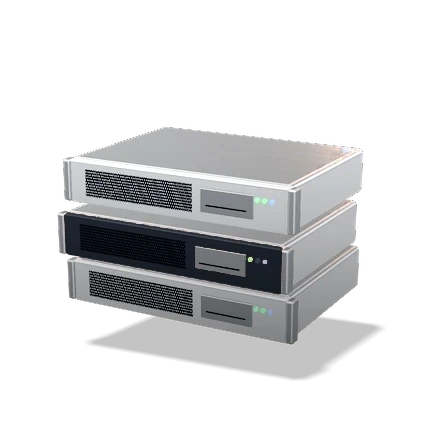
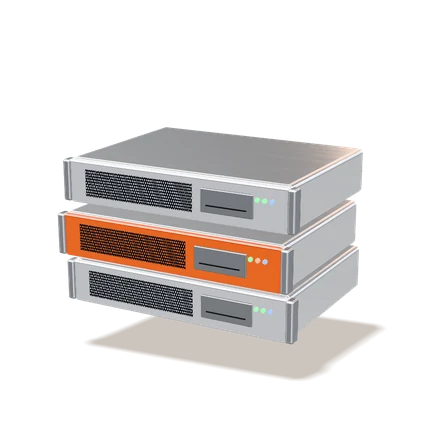
Confiance : retour aux icônes à touches orange
Remet les 4 objets 3D réalistes à touches orange (version du 16/11)
et passe le halo derrière chaque objet en orange pour aller avec.
Les cartes, les textes et les étiquettes ne changent pas.

Claude-Session: https://claude.ai/code/session_01KR9PKJfxahoW2SqZePqKxu

diff --git a/app/finitions.css b/app/finitions.css
@@ -313,10 +313,10 @@ a:focus-visible, button:focus-visible, [role="button"]:focus-visible, summary:fo
 }
 .trust-band.trust-band .trust-card.trust-card:hover { transform: translateY(-3px); }
 .trust-band.trust-band .trust-card.trust-card:hover::before { filter: saturate(1.3) brightness(1.08); }
-.trust-band.trust-band .trust-card.trust-card:nth-child(1) { --glow: rgba(232, 176, 74, .38); --tag: #a16207; }
-.trust-band.trust-band .trust-card.trust-card:nth-child(2) { --glow: rgba(96, 165, 250, .26); --tag: #1d4ed8; }
-.trust-band.trust-band .trust-card.trust-card:nth-child(3) { --glow: rgba(59, 130, 246, .32); --tag: #2563eb; }
-.trust-band.trust-band .trust-card.trust-card:nth-child(4) { --glow: rgba(34, 197, 94, .30); --tag: #15803d; }
+.trust-band.trust-band .trust-card.trust-card:nth-child(1) { --glow: rgba(255, 106, 40, .30); --tag: #a16207; }
+.trust-band.trust-band .trust-card.trust-card:nth-child(2) { --glow: rgba(255, 106, 40, .30); --tag: #1d4ed8; }
+.trust-band.trust-band .trust-card.trust-card:nth-child(3) { --glow: rgba(255, 106, 40, .30); --tag: #2563eb; }
+.trust-band.trust-band .trust-card.trust-card:nth-child(4) { --glow: rgba(255, 106, 40, .30); --tag: #15803d; }
 .trust-band.trust-band .trust-card.trust-card .trust-tag { grid-column: 1 / -1; grid-row: auto; justify-self: start; color: var(--tag); background: color-mix(in srgb, var(--tag) 10%, transparent); border: 1px solid color-mix(in srgb, var(--tag) 20%, transparent); }
 .trust-band.trust-band .trust-card .trust-link:hover { color: var(--tag); }
 
@@ -328,10 +328,10 @@ a:focus-visible, button:focus-visible, [role="button"]:focus-visible, summary:fo
   box-shadow: inset 0 1px 0 rgba(255, 255, 255, .07), 0 28px 56px -30px rgba(0, 0, 0, .85);
 }
 [data-theme="dark"] .trust-band.trust-band .trust-card .trust-art { filter: drop-shadow(0 22px 26px rgba(0, 0, 0, .65)); }
-[data-theme="dark"] .trust-band.trust-band .trust-card.trust-card:nth-child(1) { --glow: rgba(232, 176, 74, .50); --tag: #f0c46a; }
-[data-theme="dark"] .trust-band.trust-band .trust-card.trust-card:nth-child(2) { --glow: rgba(96, 165, 250, .34); --tag: #8fbaff; }
-[data-theme="dark"] .trust-band.trust-band .trust-card.trust-card:nth-child(3) { --glow: rgba(59, 130, 246, .52); --tag: #6ea8ff; }
-[data-theme="dark"] .trust-band.trust-band .trust-card.trust-card:nth-child(4) { --glow: rgba(34, 197, 94, .42); --tag: #4ade80; }
+[data-theme="dark"] .trust-band.trust-band .trust-card.trust-card:nth-child(1) { --glow: rgba(255, 106, 40, .46); --tag: #f0c46a; }
+[data-theme="dark"] .trust-band.trust-band .trust-card.trust-card:nth-child(2) { --glow: rgba(255, 106, 40, .46); --tag: #8fbaff; }
+[data-theme="dark"] .trust-band.trust-band .trust-card.trust-card:nth-child(3) { --glow: rgba(255, 106, 40, .46); --tag: #6ea8ff; }
+[data-theme="dark"] .trust-band.trust-band .trust-card.trust-card:nth-child(4) { --glow: rgba(255, 106, 40, .46); --tag: #4ade80; }
 [data-theme="dark"] .trust-band.trust-band .trust-card h3 { color: #fafafa; }
 [data-theme="dark"] .trust-band.trust-band .trust-card p { color: #a1a1aa; }
 [data-theme="dark"] .trust-band.trust-band .trust-card .trust-link { color: #fafafa; }
@@ -343,10 +343,10 @@ a:focus-visible, button:focus-visible, [role="button"]:focus-visible, summary:fo
     box-shadow: inset 0 1px 0 rgba(255, 255, 255, .07), 0 28px 56px -30px rgba(0, 0, 0, .85);
   }
   :root:not([data-theme="light"]) .trust-band.trust-band .trust-card .trust-art { filter: drop-shadow(0 22px 26px rgba(0, 0, 0, .65)); }
-  :root:not([data-theme="light"]) .trust-band.trust-band .trust-card.trust-card:nth-child(1) { --glow: rgba(232, 176, 74, .50); --tag: #f0c46a; }
-  :root:not([data-theme="light"]) .trust-band.trust-band .trust-card.trust-card:nth-child(2) { --glow: rgba(96, 165, 250, .34); --tag: #8fbaff; }
-  :root:not([data-theme="light"]) .trust-band.trust-band .trust-card.trust-card:nth-child(3) { --glow: rgba(59, 130, 246, .52); --tag: #6ea8ff; }
-  :root:not([data-theme="light"]) .trust-band.trust-band .trust-card.trust-card:nth-child(4) { --glow: rgba(34, 197, 94, .42); --tag: #4ade80; }
+  :root:not([data-theme="light"]) .trust-band.trust-band .trust-card.trust-card:nth-child(1) { --glow: rgba(255, 106, 40, .46); --tag: #f0c46a; }
+  :root:not([data-theme="light"]) .trust-band.trust-band .trust-card.trust-card:nth-child(2) { --glow: rgba(255, 106, 40, .46); --tag: #8fbaff; }
+  :root:not([data-theme="light"]) .trust-band.trust-band .trust-card.trust-card:nth-child(3) { --glow: rgba(255, 106, 40, .46); --tag: #6ea8ff; }
+  :root:not([data-theme="light"]) .trust-band.trust-band .trust-card.trust-card:nth-child(4) { --glow: rgba(255, 106, 40, .46); --tag: #4ade80; }
   :root:not([data-theme="light"]) .trust-band.trust-band .trust-card h3 { color: #fafafa; }
   :root:not([data-theme="light"]) .trust-band.trust-band .trust-card p { color: #a1a1aa; }
   :root:not([data-theme="light"]) .trust-band.trust-band .trust-card .trust-link { color: #fafafa; }
